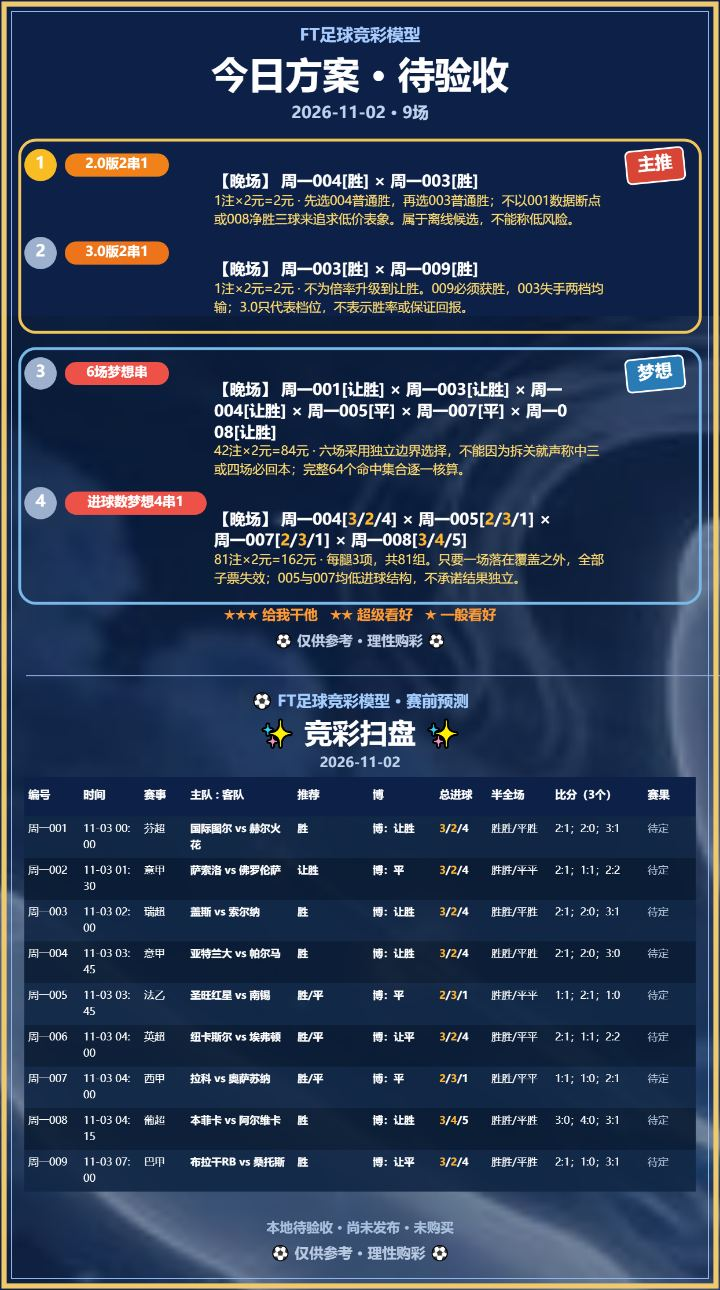
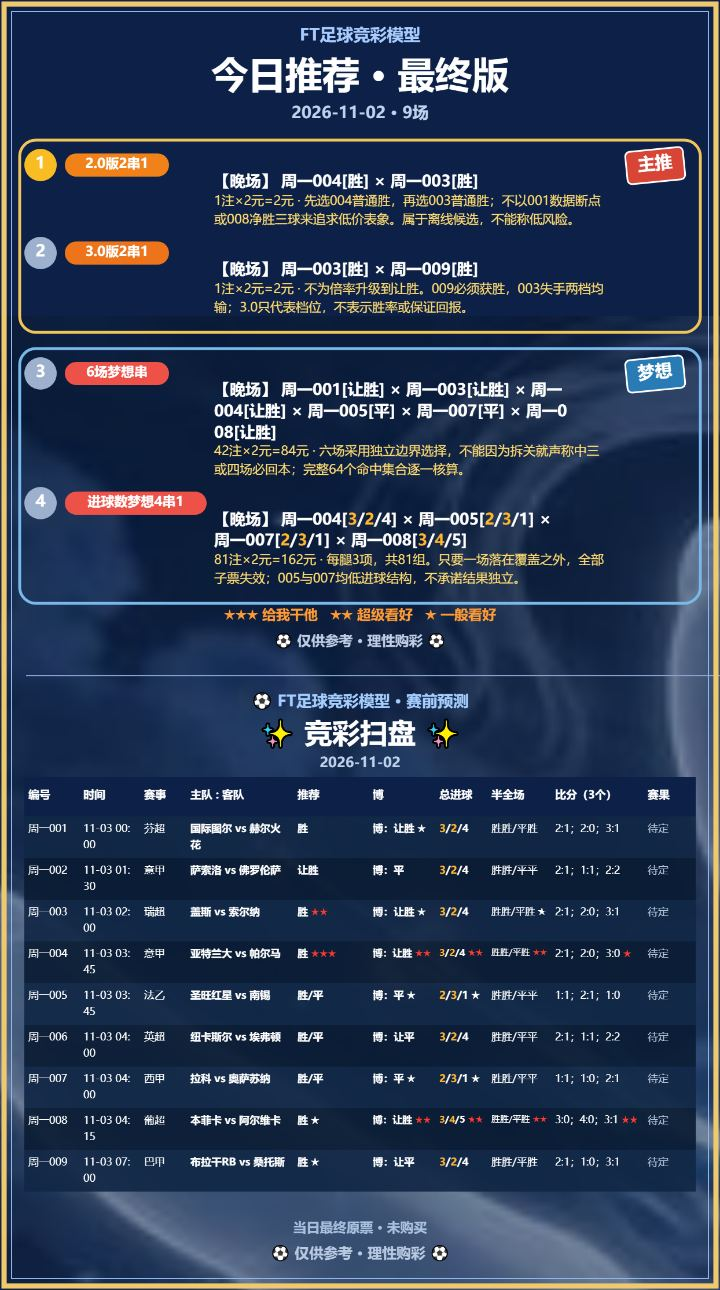
Restore November 1 settlements in current tracking history

diff --git a/public/phone-v2.html b/public/phone-v2.html
@@ -3,7 +3,7 @@
 </style></head><body><main><h1>足球四图</h1><p class="tip">点击绿色按钮，直接复制对应图片。</p><div id="cards"><div id="status">正在加载…</div></div></main><script>
 (async()=>{const cards=document.getElementById('cards'),version='20261102-final-v6';try{const [today,review]=await Promise.all([fetch(`data/latest.json?v=${version}`,{cache:'no-store'}).then(r=>r.json()),fetch(`data/review-latest.json?v=${version}`,{cache:'no-store'}).then(r=>r.json())]);const items=[['推荐扫盘',today.date,`${today.date}-final-scan.png`],['今日跟踪',today.date,`${today.date}-final-tracking.png`],['复盘扫盘',review.date,`${review.date}-review-scan.png`],['复盘跟踪',review.date,`${review.date}-review-tracking.png`]];cards.textContent='';for(const [title,date,file] of items){const box=document.createElement('section');box.className='card';const preview=`cards/${file.replace('.png','-preview.jpg')}?v=${version}`,full=`cards/${file}?v=${version}`;box.innerHTML='<div class="head"><strong></strong><span></span></div><img loading="lazy" decoding="async"><button type="button">点击复制图片</button>';box.querySelector('strong').textContent=title;box.querySelector('span').textContent=date;const img=box.querySelector('img'),button=box.querySelector('button');img.alt=`${date} ${title}`;img.src=preview;button.dataset.copySrc=full;button.onclick=async()=>{const text=button.textContent,url=new URL(button.dataset.copySrc,location.href);url.searchParams.set('copy',String(Date.now()));button.dataset.copyState='copying';button.textContent='正在复制高清图…';button.disabled=true;try{if(!navigator.clipboard?.write||!window.ClipboardItem)throw Error('clipboard-image-unsupported');const pngPromise=fetch(url,{cache:'no-store'}).then(r=>{if(!r.ok)throw Error('image-fetch-failed');return r.blob()}).then(async b=>b.type==='image/png'?b:new Blob([await b.arrayBuffer()],{type:'image/png'}));await navigator.clipboard.write([new ClipboardItem({'image/png':pngPromise})]);button.dataset.copyState='success';button.textContent='✓ 已复制高清图'}catch(e){button.dataset.copyState='failed';button.textContent='复制失败，请检查浏览器图片权限';button.title=e?.message||'copy failed'}setTimeout(()=>{button.disabled=false;button.textContent=text},3000)};cards.append(box)}}catch{document.getElementById('status').textContent='加载失败，请刷新';}})();
 </script><script>
-const refreshImages=()=>document.querySelectorAll('img:not([data-fresh])').forEach(img=>{img.dataset.fresh='1';const url=new URL(img.src);url.searchParams.set('v','20261102-history-fix');img.src=url});
+const refreshImages=()=>document.querySelectorAll('img:not([data-fresh])').forEach(img=>{img.dataset.fresh='1';const url=new URL(img.src);url.searchParams.set('v','20261102-stars-fix');img.src=url});
 new MutationObserver(refreshImages).observe(document.getElementById('cards'),{childList:true,subtree:true});refreshImages();
 </script></body></html>
 
